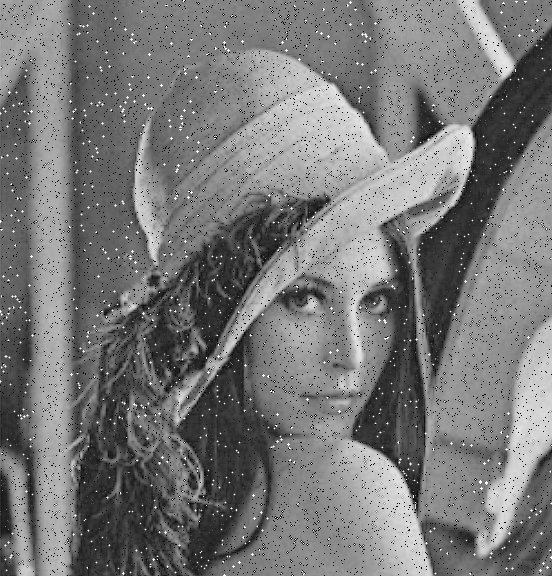
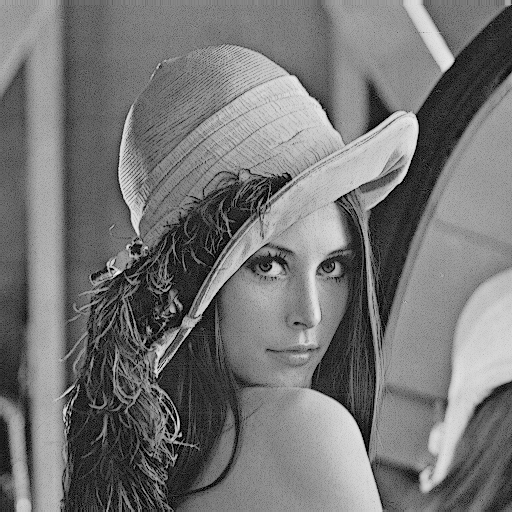
Fixed highboost and unsharp masking

diff --git a/StateManager.py b/StateManager.py
@@ -2,7 +2,7 @@ from random import random
 from tkinter import StringVar
 from tkinter.ttk import Notebook
 import cv2
-from PIL import Image
+from PIL import Image, ImageFilter
 from PIL.ImageTk import PhotoImage
 from struct import unpack
 import numpy as np
@@ -361,6 +361,12 @@ class StateManager(Subject):
         # high pass
         high_pass = self.highpass_laplacian()
 
+        # unmask
+        unmasked = self.unmask()
+
+        # highboost
+        highboost = self.highboost()
+
         # Generate an image with a grayscale filter
     def generate_grayscale(self, png_image):
         grayscale = np.asarray(png_image)
@@ -403,9 +409,9 @@ class StateManager(Subject):
         return PhotoImage(Image.open('./assets/grayscale-negative.png'))
 
     def generate_averaging_filter(self):
-        temp_img = cv2.imread('./assets/grayscale.png', 0)
+        temp_img = cv2.imread('./assets/pic.png', 0)
 
-        a, b = temp_img.shape  # rows & columns
+        a, b  = temp_img.shape  # rows & columns
 
         mask = np.array([[1, 2, 1], [2, 4, 2], [1, 2, 1]])
         mask = mask/16
@@ -425,7 +431,7 @@ class StateManager(Subject):
 
     # DREW: toggle to apply filter on salt and pepper image or purely grayscale lang for average, median
     def salt_and_pepper(self):
-        temp_img = cv2.imread('./assets/grayscale.png', 0)
+        temp_img = cv2.imread('./assets/pic.png', 0)
 
         rows, cols = temp_img.shape
 
@@ -448,7 +454,7 @@ class StateManager(Subject):
         cv2.imshow('salt and pepper', temp_img)
 
     def median_filtering(self):
-        image = cv2.imread('./assets/grayscale.png', 0)
+        image = cv2.imread('./assets/pic.png', 0)
         a, b = image.shape  # rows & columns
 
         new_img = np.zeros([a, b])
@@ -472,8 +478,9 @@ class StateManager(Subject):
         cv2.imwrite('./assets/median.png', new_img)
         cv2.imshow('median', new_img)
 
+    # Spatial domain laplacian
     def highpass_laplacian(self):
-        image = cv2.imread('./assets/salt_and_pepper.png', 0)
+        image = cv2.imread('./assets/pic.png', 0)
 
         filt = np.array([[0, 1, 0],
                           [1, -4, 1],
@@ -481,8 +488,41 @@ class StateManager(Subject):
 
         filtered_img = cv2.filter2D(src=image, ddepth=-1, kernel=filt)
 
-        filt2 = np.array(image + (-1*filtered_img), dtype='uint8')
-        
-        cv2.imwrite('./assets/highpass.png', filt2)
+        filt2 = image + (-1*filtered_img)
 
-        cv2.imshow('highpass', filt2)
+        clip = np.array(np.clip(filt2, 0, 255), dtype='uint8')
+        
+        cv2.imwrite('./assets/highpass.png', clip)
+
+        print(clip)
+
+        cv2.imshow('highpass', clip)
+
+    def unmask(self):
+        img = cv2.imread('./assets/pic.png', 0)
+        img = img / 255
+
+        blurred_img = cv2.GaussianBlur(img, (31,31), cv2.BORDER_DEFAULT)
+
+        mask = img -  blurred_img
+        final = img + mask
+        final = np.clip(final, 0, 255)
+        
+        cv2.imshow('unsharp masking', final)
+
+    def highboost(self):
+        img = cv2.imread('./assets/pic.png', 0)
+        img = img / 255
+
+        blurred_img = cv2.GaussianBlur(img, (31,31), cv2.BORDER_DEFAULT)
+
+        mask = img -  blurred_img
+        amplify_param = 5
+        final = img + amplify_param*mask
+        final = np.clip(final, 0, 255)
+        
+        cv2.imshow('highboost', final)
+        
+
+        
+
